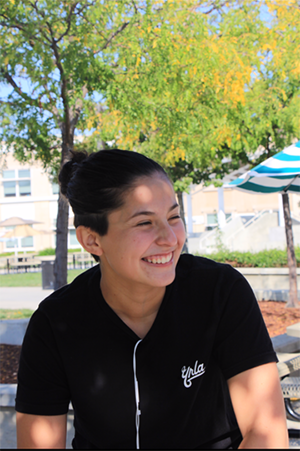
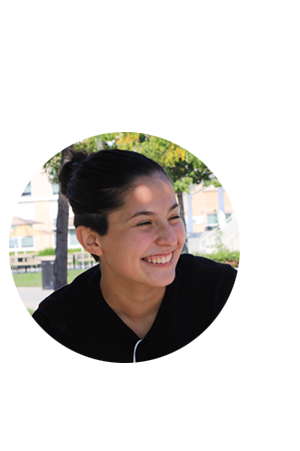
another one

diff --git a/index.html b/index.html
@@ -10,17 +10,17 @@
 
 
 <div id="one">
-    <h1> This is a CSS Layout</h1>
+    <h1>This is us</h1>
 </div>
 
 <div id="two">
-    <p> This is a paragraph</p>
-<img src="images/smile.png" alt="smile">
+    <img src="images/smile.png" alt="smile">
+    <p><a href="page_two.html">@diamondkandino</a></p>
 </div>
 
 <div id="three">
-    <p class="red-text">This is a paragraph</p>
-    <img src="images/smile.png" alt="smile">
+    <img src="images/portrait.png" alt="smile">
+    <p><a href="page_three.html">@rhyanmaldo_01</a></p>
 </div>
 
 <div id="four">

diff --git a/page_three.html b/page_three.html
@@ -1,0 +1,14 @@
+<!DOCTYPE html>
+<html lang="en" dir="ltr">
+  <head>
+    <meta charset="utf-8">
+    <link rel="stylesheet" type="text/css" href="css/style3.css">
+
+    <title></title>
+  </head>
+  <body>
+
+<img src="images/real.png" alt="smile">
+
+  </body>
+</html>

diff --git a/css/style.css b/css/style.css
@@ -31,7 +31,7 @@ h3 {
 #three {
   background-color: pink;
   float: right;
-  margin-right: 50px;
+  margin-right: 55px;
   margin-bottom: 50px;
 }
 
